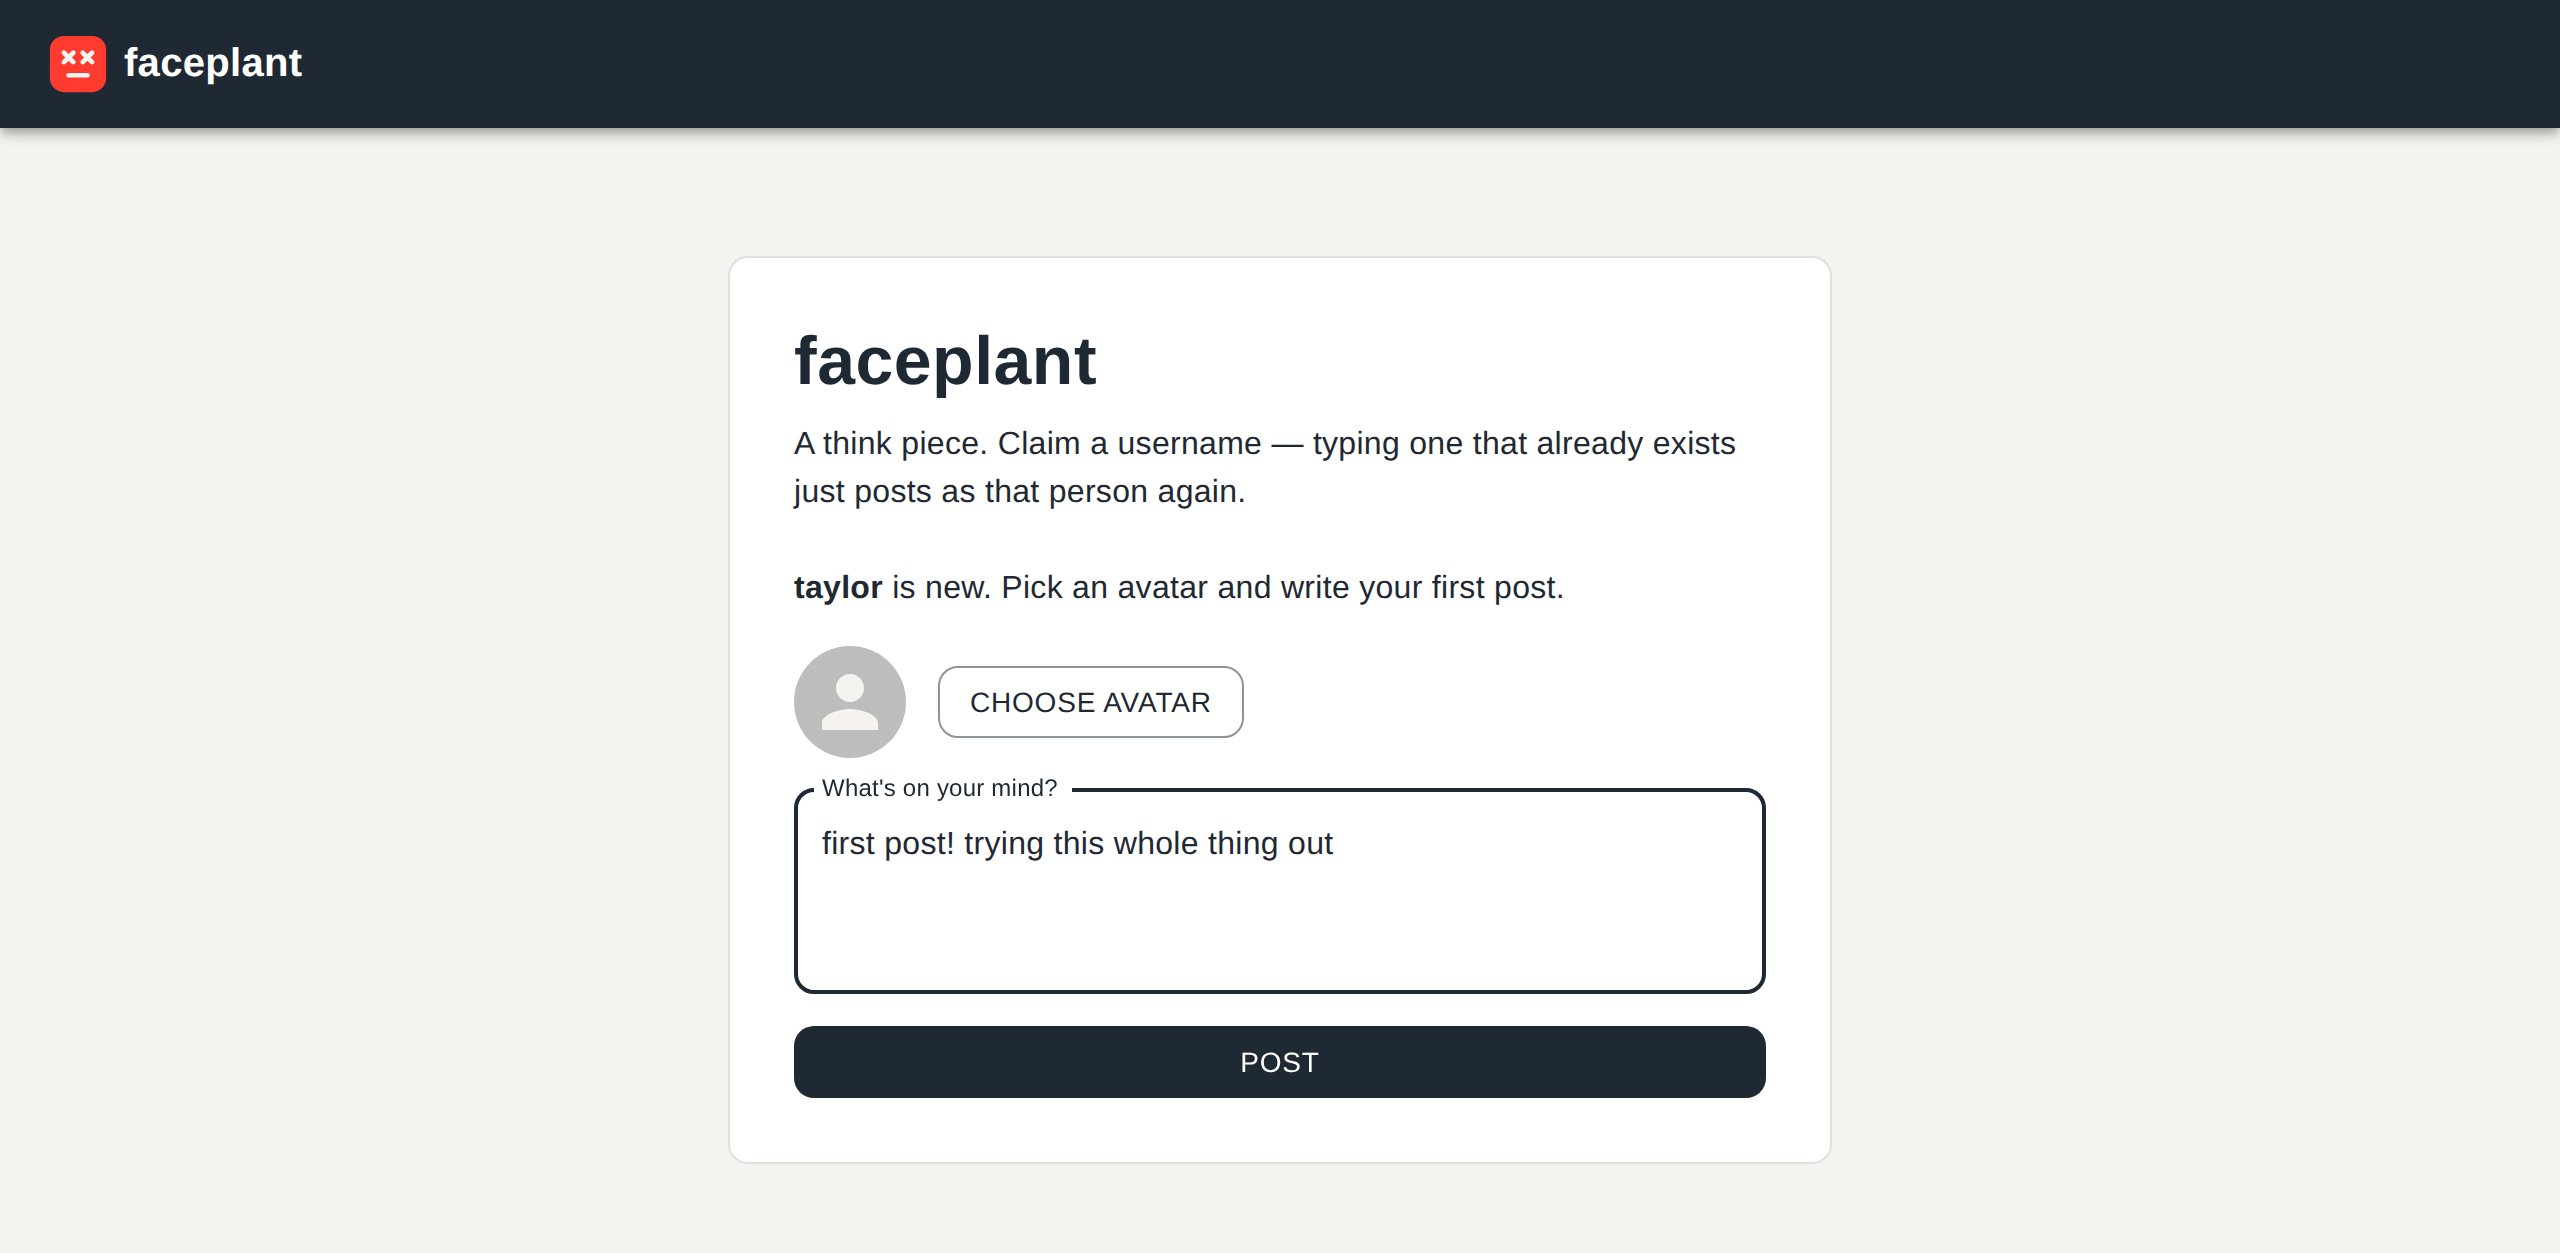
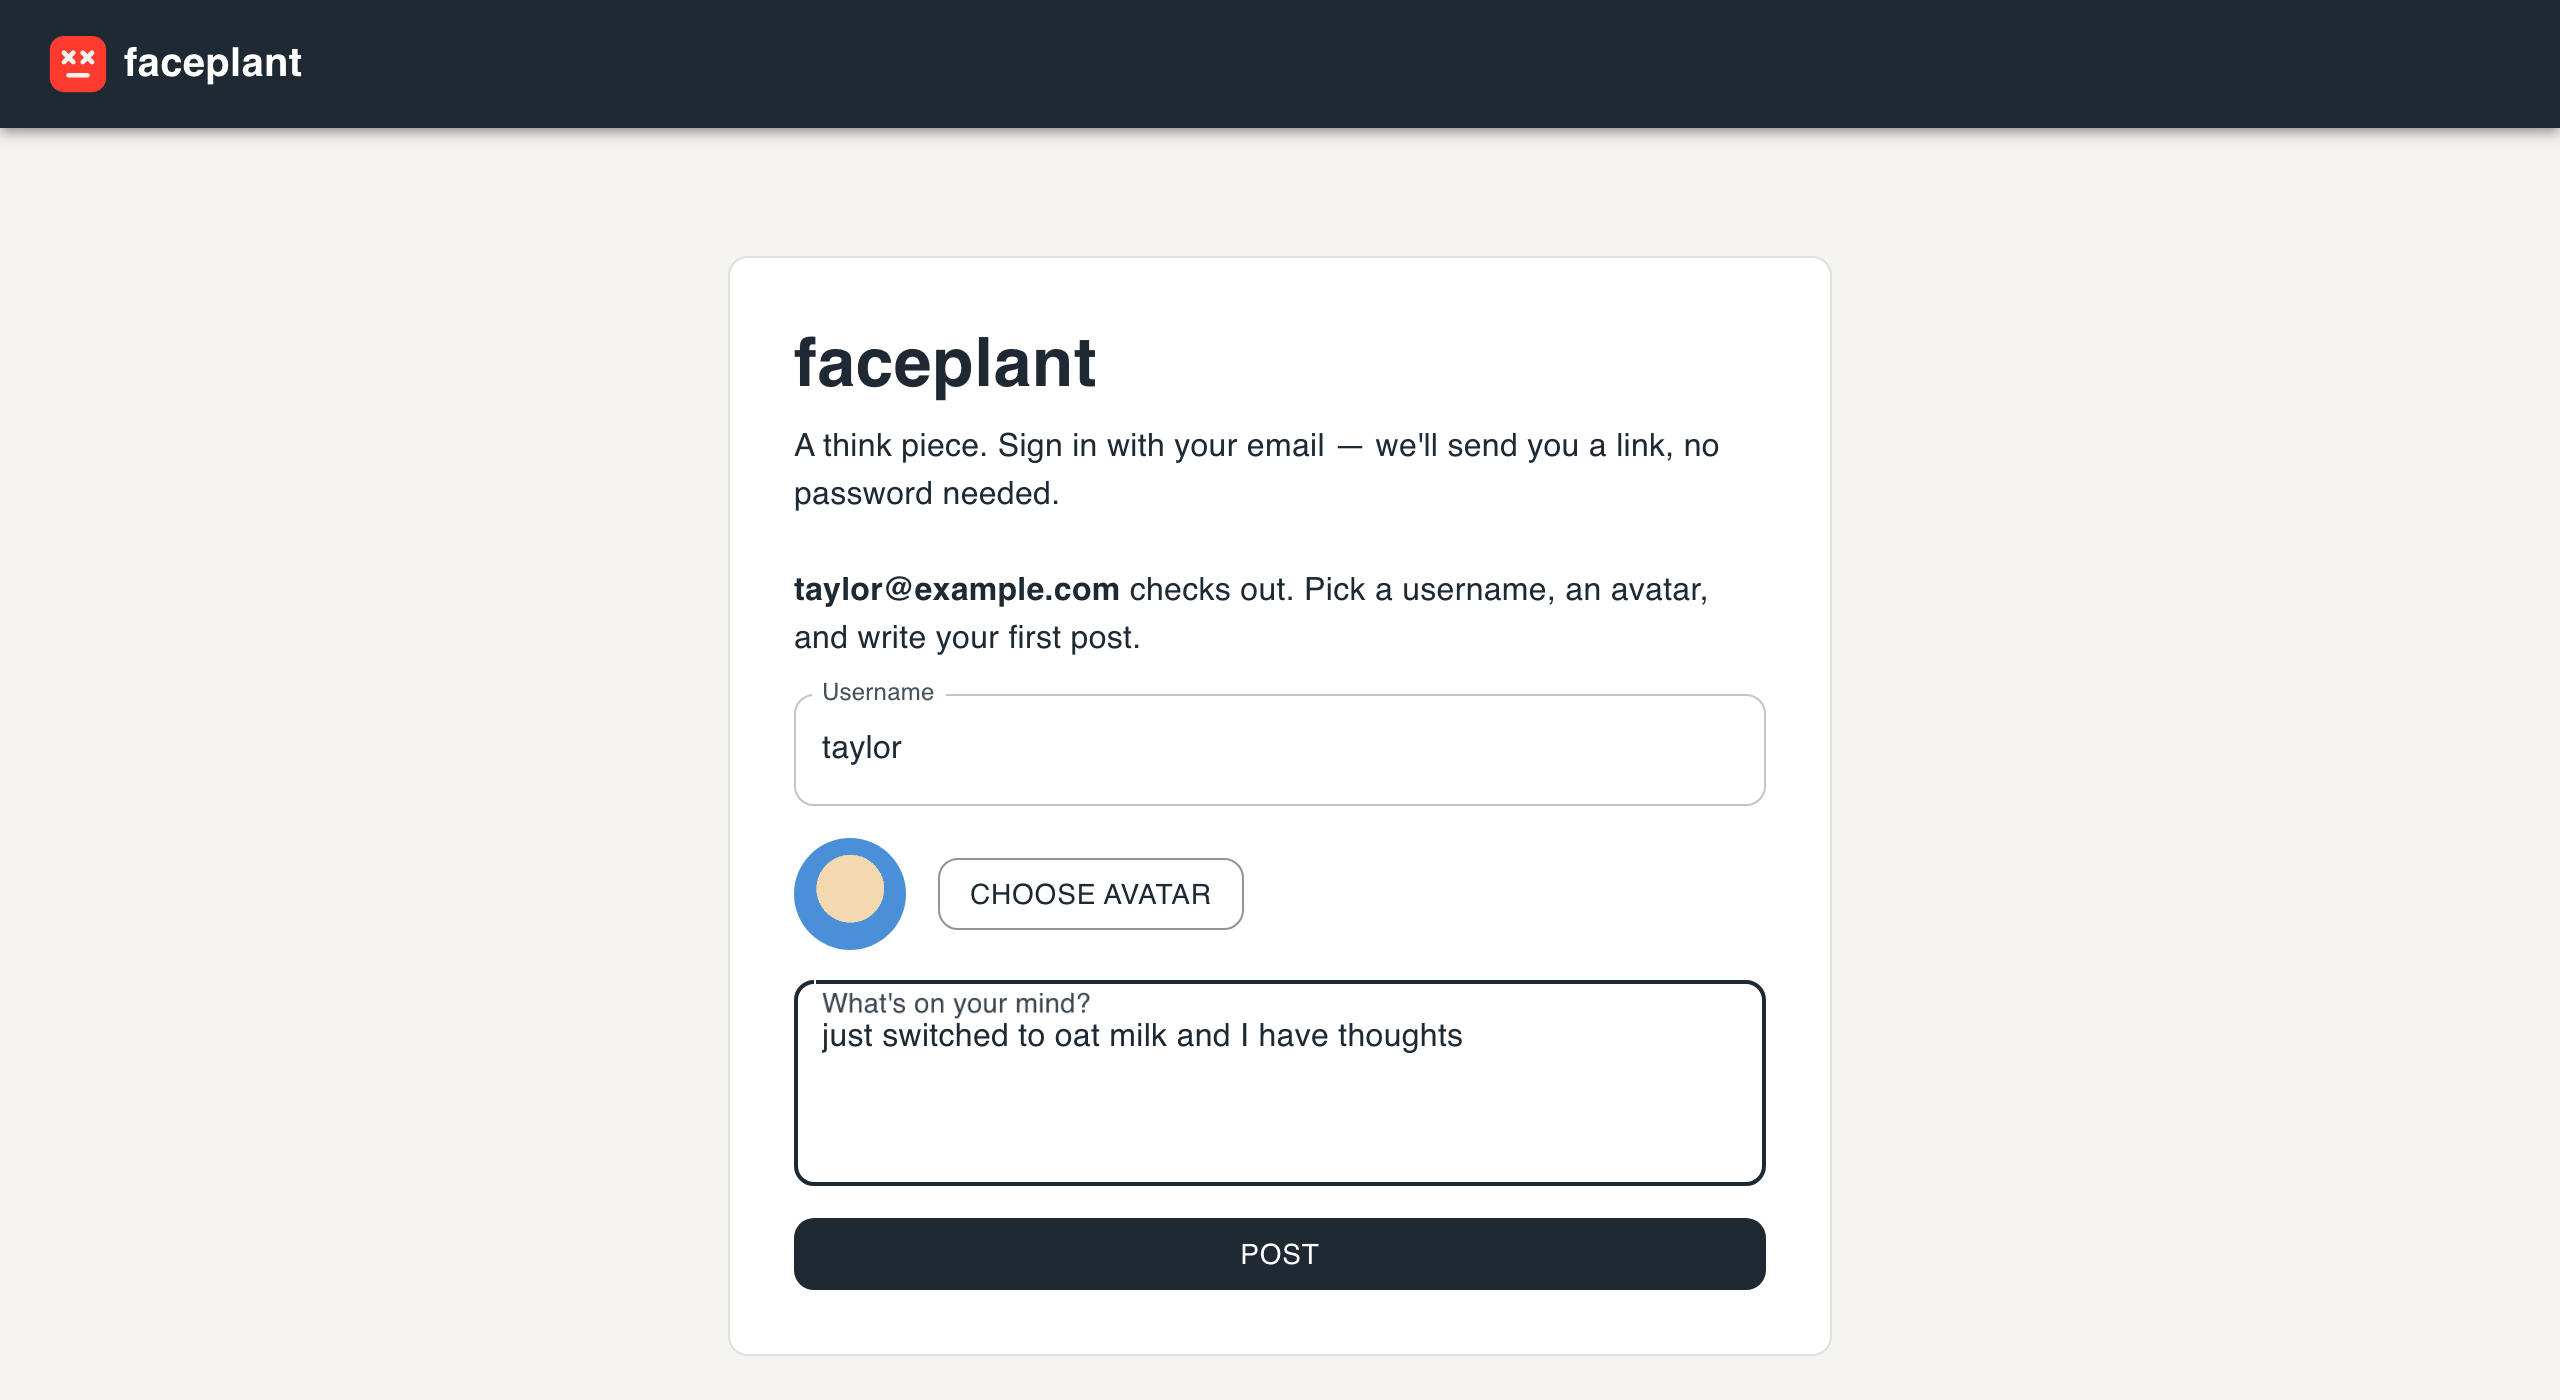
fixes to identitygate and documentation (#21)

Changed region(s): [[0.3125, 0.249, 0.6875, 0.747], [0.3125, 0.7781, 0.6875, 0.9338], [0.0, 0.0311, 1.0, 0.1245]]

diff --git a/frontend/src/components/IdentityGate.tsx b/frontend/src/components/IdentityGate.tsx
@@ -125,7 +125,7 @@ export default function IdentityGate({ onIdentityResolved }: Props) {
               onChange={(e) => setEmail(e.target.value)}
               autoFocus
             />
-            <Button type="submit" variant="contained" disabled={loading}>
+            <Button type="submit" variant="contained" disabled={loading} sx={{ whiteSpace: 'nowrap' }}>
               Send link
             </Button>
           </Box>

diff --git a/README.md b/README.md
@@ -99,7 +99,7 @@ sends a one-time sign-in link (see
 [Identity: magic-link email auth](#identity-magic-link-email-auth) above);
 clicking the link is what actually gets you in.
 
-![Claim a username](docs/screenshots/01-claim-username.png)
+![Sign in with a magic link](docs/screenshots/01-claim-username.png)
 
 ### 2. New email: pick a username, an avatar, and post
 